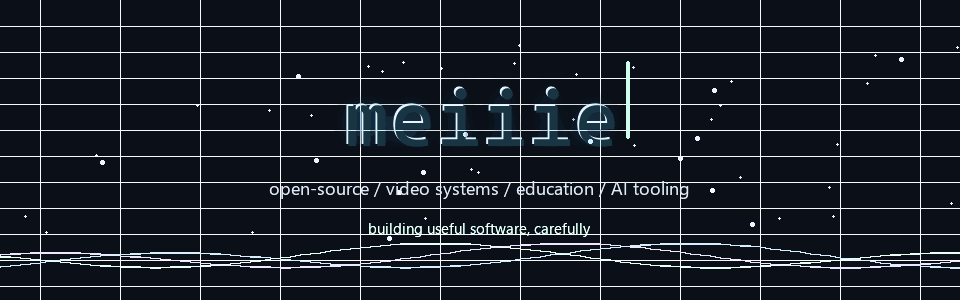
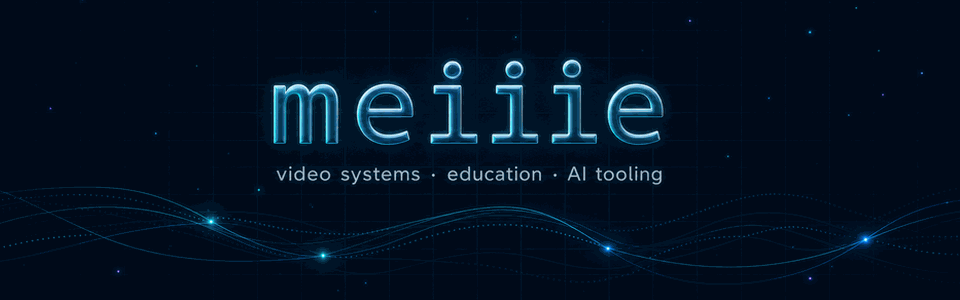
Use imagegen profile signature art

Changed region(s): [[0.0, 0.15, 1.0, 0.66], [0.0, 0.66, 1.0, 0.96], [0.0, 0.06, 1.0, 0.09]]

diff --git a/scripts/render_signature.py b/scripts/render_signature.py
@@ -1,172 +1,110 @@
 from __future__ import annotations
 
 import math
-import random
 from pathlib import Path
 
-from PIL import Image, ImageDraw, ImageFilter, ImageFont
+from PIL import Image, ImageChops, ImageDraw, ImageEnhance, ImageFilter
 
 
 ROOT = Path(__file__).resolve().parents[1]
 ASSETS = ROOT / "assets"
+SOURCE = ASSETS / "meiiie-signature-imagegen-source.png"
+OUTPUT = ASSETS / "meiiie-signature.gif"
+PREVIEW = ASSETS / "meiiie-signature.png"
+
 WIDTH = 960
 HEIGHT = 300
-FRAMES = 96
-FRAME_MS = 70
-
-FONT_TITLE = Path("C:/Windows/Fonts/CascadiaCode.ttf")
-FONT_TEXT = Path("C:/Windows/Fonts/segoeui.ttf")
+FRAMES = 84
+FRAME_MS = 72
 
 
-def clamp(value: float, low: float = 0.0, high: float = 1.0) -> float:
-    return max(low, min(high, value))
+def ease_in_out(value: float) -> float:
+    return 0.5 - 0.5 * math.cos(max(0.0, min(1.0, value)) * math.pi)
 
 
-def smoothstep(edge0: float, edge1: float, value: float) -> float:
-    x = clamp((value - edge0) / (edge1 - edge0))
-    return x * x * (3 - 2 * x)
+def cover_crop(image: Image.Image, width: int, height: int, y_bias: float = 0.46) -> Image.Image:
+    src_w, src_h = image.size
+    target_ratio = width / height
+    src_ratio = src_w / src_h
+
+    if src_ratio > target_ratio:
+        crop_h = src_h
+        crop_w = int(crop_h * target_ratio)
+        left = (src_w - crop_w) // 2
+        top = 0
+    else:
+        crop_w = src_w
+        crop_h = int(crop_w / target_ratio)
+        left = 0
+        top = int((src_h - crop_h) * y_bias)
+
+    return image.crop((left, top, left + crop_w, top + crop_h)).resize(
+        (width, height),
+        Image.Resampling.LANCZOS,
+    )
 
 
-def ease_out_cubic(value: float) -> float:
-    x = clamp(value)
-    return 1 - pow(1 - x, 3)
+def shifted_frame(source: Image.Image, progress: float) -> Image.Image:
+    zoom = 1.024 + 0.006 * math.sin(progress * math.tau)
+    scaled = source.resize(
+        (int(WIDTH * zoom), int(HEIGHT * zoom)),
+        Image.Resampling.LANCZOS,
+    )
+    max_x = scaled.width - WIDTH
+    max_y = scaled.height - HEIGHT
+    pan_x = int((0.5 + 0.5 * math.sin(progress * math.tau)) * max_x)
+    pan_y = int((0.5 + 0.5 * math.sin(progress * math.tau + math.pi / 2)) * max_y)
+    return scaled.crop((pan_x, pan_y, pan_x + WIDTH, pan_y + HEIGHT))
 
 
-def font(path: Path, size: int) -> ImageFont.FreeTypeFont:
-    if path.exists():
-        return ImageFont.truetype(str(path), size=size)
-    return ImageFont.load_default(size=size)
+def soft_light_sweep(progress: float) -> Image.Image:
+    layer = Image.new("RGBA", (WIDTH, HEIGHT), (0, 0, 0, 0))
+    draw = ImageDraw.Draw(layer, "RGBA")
+    sweep_x = int(-WIDTH * 0.35 + (WIDTH * 1.7) * progress)
+
+    for offset in range(-120, 121, 6):
+        alpha = int(18 * (1 - abs(offset) / 126))
+        if alpha <= 0:
+            continue
+        x = sweep_x + offset
+        draw.line((x - 120, 0, x + 90, HEIGHT), fill=(114, 239, 255, alpha), width=4)
+
+    return layer.filter(ImageFilter.GaussianBlur(7))
 
 
-def text_size(draw: ImageDraw.ImageDraw, text: str, font_obj: ImageFont.FreeTypeFont) -> tuple[int, int]:
-    left, top, right, bottom = draw.textbbox((0, 0), text, font=font_obj)
-    return right - left, bottom - top
+def pulse_highlights(frame: Image.Image, progress: float) -> Image.Image:
+    glow = ImageEnhance.Contrast(frame.convert("L")).enhance(1.9)
+    glow = glow.point(lambda value: max(0, min(255, int((value - 138) * 2.2))))
+    glow = glow.filter(ImageFilter.GaussianBlur(3))
 
-
-def draw_centered(
-    layer: Image.Image,
-    text: str,
-    y: int,
-    font_obj: ImageFont.FreeTypeFont,
-    fill: tuple[int, int, int, int],
-    x_offset: int = 0,
-) -> None:
-    draw = ImageDraw.Draw(layer)
-    tw, th = text_size(draw, text, font_obj)
-    draw.text(((WIDTH - tw) // 2 + x_offset, y - th // 2), text, font=font_obj, fill=fill)
-
-
-def draw_background(base: Image.Image, progress: float) -> None:
-    draw = ImageDraw.Draw(base, "RGBA")
-    base.paste((9, 14, 23), (0, 0, WIDTH, HEIGHT))
-
-    for y in range(26, HEIGHT, 26):
-        alpha = 12 + int(7 * math.sin(progress * math.tau + y * 0.04))
-        draw.line((0, y, WIDTH, y), fill=(87, 108, 139, alpha), width=1)
-
-    for x in range(40, WIDTH, 80):
-        alpha = 10 + int(5 * math.sin(progress * math.tau + x * 0.02))
-        draw.line((x, 0, x, HEIGHT), fill=(87, 108, 139, alpha), width=1)
-
-    for offset, alpha, color in (
-        (0.0, 58, (67, 185, 255)),
-        (0.23, 42, (144, 116, 255)),
-        (0.48, 34, (89, 255, 198)),
-    ):
-        points: list[tuple[float, float]] = []
-        for x in range(-20, WIDTH + 21, 10):
-            phase = x * 0.012 + progress * math.tau + offset * math.tau
-            y = 258 + math.sin(phase) * 10 + math.sin(phase * 0.43) * 5
-            points.append((x, y))
-        draw.line(points, fill=(*color, alpha), width=2)
-
-
-def draw_particles(base: Image.Image, progress: float, fade: float) -> None:
-    draw = ImageDraw.Draw(base, "RGBA")
-    random.seed(1789)
-
-    for _ in range(46):
-        seed_x = random.random()
-        seed_y = random.random()
-        drift = random.uniform(-22, 22)
-        radius = random.choice((1, 1, 1, 2))
-        phase = random.random()
-        x = (seed_x * WIDTH + math.sin((progress + phase) * math.tau) * drift) % WIDTH
-        y = 34 + seed_y * 206 + math.cos((progress + phase * 0.7) * math.tau) * drift * 0.45
-        alpha = int((28 + 32 * math.sin((progress + phase) * math.tau) ** 2) * fade)
-        draw.ellipse((x - radius, y - radius, x + radius, y + radius), fill=(151, 196, 255, alpha))
-
-
-def draw_signature(base: Image.Image, progress: float) -> None:
-    title_font = font(FONT_TITLE, 78)
-    text_font = font(FONT_TEXT, 18)
-    small_font = font(FONT_TEXT, 15)
-
-    reveal = ease_out_cubic(smoothstep(0.08, 0.42, progress))
-    hold = 1 - smoothstep(0.86, 0.98, progress)
-    opacity = clamp(smoothstep(0.02, 0.12, progress) * hold)
-
-    title = "meiiie"
-    subtitle = "open-source / video systems / education / AI tooling"
-    closing = "building useful software, carefully"
-
-    title_layer = Image.new("RGBA", (WIDTH, HEIGHT), (0, 0, 0, 0))
-    glow_layer = Image.new("RGBA", (WIDTH, HEIGHT), (0, 0, 0, 0))
-    draw = ImageDraw.Draw(title_layer)
-    tw, th = text_size(draw, title, title_font)
-    tx = (WIDTH - tw) // 2
-    ty = 100 - th // 2
-
-    mask_width = max(1, int((tw + 16) * reveal))
-    title_mask = Image.new("L", (WIDTH, HEIGHT), 0)
-    mask_draw = ImageDraw.Draw(title_mask)
-    mask_draw.rectangle((tx - 8, ty - 8, tx - 8 + mask_width, ty + th + 16), fill=int(255 * opacity))
-
-    ImageDraw.Draw(glow_layer).text((tx, ty), title, font=title_font, fill=(48, 163, 255, int(180 * opacity)))
-    glow_layer = glow_layer.filter(ImageFilter.GaussianBlur(9))
-    title_layer.alpha_composite(glow_layer)
-
-    draw = ImageDraw.Draw(title_layer)
-    draw.text((tx, ty), title, font=title_font, fill=(233, 246, 255, int(255 * opacity)))
-    draw.text((tx + 2, ty + 2), title, font=title_font, fill=(97, 219, 255, int(48 * opacity)))
-    title_layer.putalpha(Image.composite(title_layer.getchannel("A"), Image.new("L", (WIDTH, HEIGHT), 0), title_mask))
-    base.alpha_composite(title_layer)
-
-    if 0.12 < progress < 0.86:
-        cursor_x = tx - 8 + mask_width
-        pulse = 0.5 + 0.5 * math.sin(progress * math.tau * 4)
-        ImageDraw.Draw(base, "RGBA").rounded_rectangle(
-            (cursor_x, ty - 10, cursor_x + 3, ty + th + 8),
-            radius=2,
-            fill=(89, 255, 198, int((70 + 110 * pulse) * opacity)),
-        )
-
-    sub_alpha = int(220 * smoothstep(0.36, 0.54, progress) * hold)
-    draw_centered(base, subtitle, 184, text_font, (174, 194, 221, sub_alpha))
-
-    close_alpha = int(210 * smoothstep(0.55, 0.72, progress) * hold)
-    draw_centered(base, closing, 224, small_font, (112, 255, 210, close_alpha))
+    alpha_strength = 0.12 + 0.08 * math.sin(progress * math.tau)
+    alpha = glow.point(lambda value: int(value * alpha_strength))
+    color = Image.new("RGBA", (WIDTH, HEIGHT), (92, 227, 255, 0))
+    color.putalpha(alpha)
+    return Image.alpha_composite(frame, color)
 
 
 def render() -> None:
+    if not SOURCE.exists():
+        raise FileNotFoundError(f"Missing imagegen source: {SOURCE}")
+
     ASSETS.mkdir(exist_ok=True)
+    source = Image.open(SOURCE).convert("RGBA")
+    base = cover_crop(source, WIDTH, HEIGHT)
     frames: list[Image.Image] = []
 
     for index in range(FRAMES):
         progress = index / FRAMES
-        frame = Image.new("RGBA", (WIDTH, HEIGHT), (0, 0, 0, 255))
-        fade = clamp(smoothstep(0.0, 0.08, progress) * (1 - smoothstep(0.9, 1.0, progress)))
-        draw_background(frame, progress)
-        draw_particles(frame, progress, fade)
-        draw_signature(frame, progress)
+        wave = ease_in_out((math.sin(progress * math.tau) + 1) / 2)
 
-        cover = Image.new("RGBA", (WIDTH, HEIGHT), (9, 14, 23, int(255 * (1 - fade))))
-        frame.alpha_composite(cover)
-        frames.append(frame.convert("P", palette=Image.Palette.ADAPTIVE, colors=128))
+        frame = shifted_frame(base, progress)
+        frame = pulse_highlights(frame, progress)
+        frame = ImageChops.screen(frame, soft_light_sweep(wave))
 
-    output = ASSETS / "meiiie-signature.gif"
+        frames.append(frame.convert("P", palette=Image.Palette.ADAPTIVE, colors=160))
+
     frames[0].save(
-        output,
+        OUTPUT,
         save_all=True,
         append_images=frames[1:],
         duration=FRAME_MS,
@@ -174,11 +112,9 @@ def render() -> None:
         optimize=True,
         disposal=2,
     )
-
-    png = ASSETS / "meiiie-signature.png"
-    frames[42].convert("RGBA").save(png)
-    print(output)
-    print(png)
+    frames[24].convert("RGBA").save(PREVIEW)
+    print(OUTPUT)
+    print(PREVIEW)
 
 
 if __name__ == "__main__":
